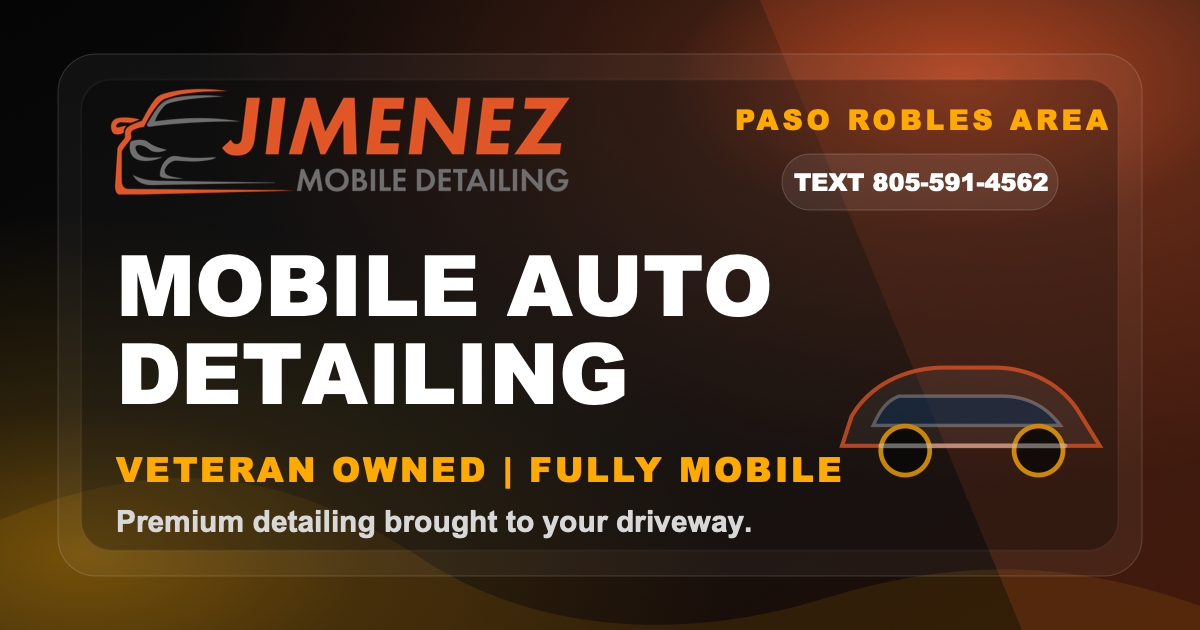
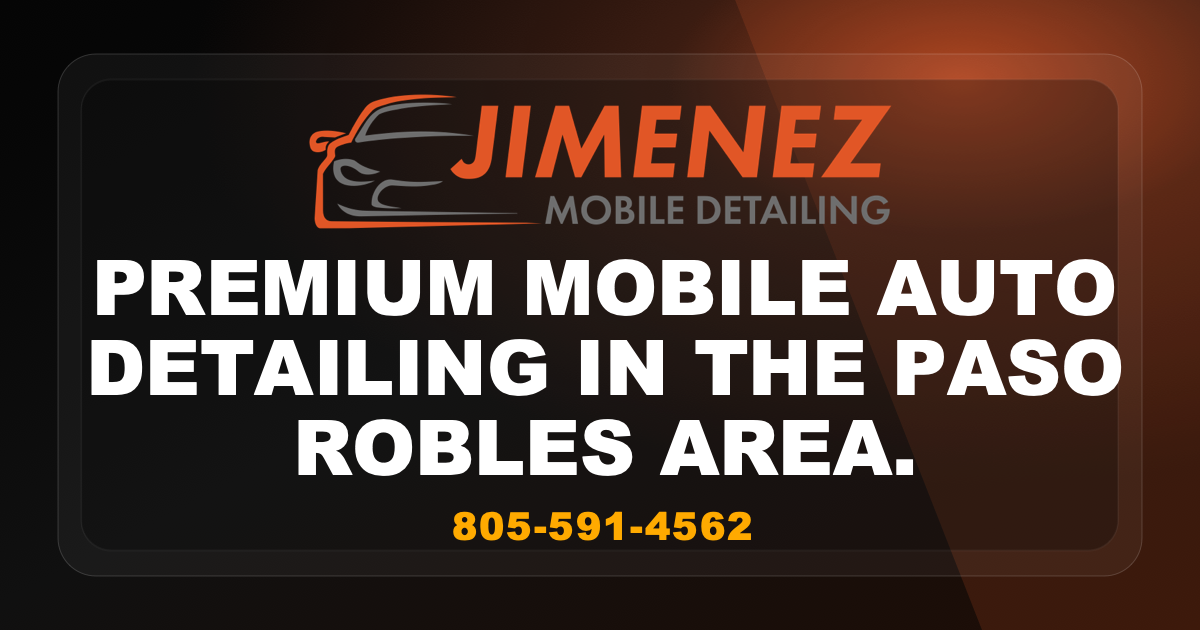
Simplify link preview card

diff --git a/about/index.html b/about/index.html
@@ -11,22 +11,22 @@
     <link rel="canonical" href="https://creativesilva.github.io/jimenez-mobile-detailing/about/" />
     <meta name="theme-color" content="#050505" />
     <meta property="og:site_name" content="Jimenez Mobile Detailing" />
-    <meta property="og:title" content="About Jimenez Mobile Detailing | Veteran Owned Mobile Detailing" />
-    <meta property="og:description" content="Learn about Jimenez Mobile Detailing, a veteran owned and fully self-contained mobile detailing service in the Paso Robles area." />
+    <meta property="og:title" content="Premium Mobile Auto Detailing in the Paso Robles Area." />
+    <meta property="og:description" content="805-591-4562" />
     <meta property="og:type" content="website" />
     <meta property="og:url" content="https://creativesilva.github.io/jimenez-mobile-detailing/about/" />
-    <meta property="og:image" content="https://creativesilva.github.io/jimenez-mobile-detailing/public/assets/images/jimenez-link-preview.png" />
-    <meta property="og:image:secure_url" content="https://creativesilva.github.io/jimenez-mobile-detailing/public/assets/images/jimenez-link-preview.png" />
+    <meta property="og:image" content="https://creativesilva.github.io/jimenez-mobile-detailing/public/assets/images/jimenez-link-preview.png?v=20260429-simple" />
+    <meta property="og:image:secure_url" content="https://creativesilva.github.io/jimenez-mobile-detailing/public/assets/images/jimenez-link-preview.png?v=20260429-simple" />
     <meta property="og:image:type" content="image/png" />
     <meta property="og:image:width" content="1200" />
     <meta property="og:image:height" content="630" />
-    <meta property="og:image:alt" content="Jimenez Mobile Detailing branded preview card" />
+    <meta property="og:image:alt" content="Jimenez Mobile Detailing logo, premium mobile auto detailing in the Paso Robles area, and 805-591-4562" />
     <meta name="twitter:card" content="summary_large_image" />
-    <meta name="twitter:title" content="About Jimenez Mobile Detailing | Veteran Owned Mobile Detailing" />
-    <meta name="twitter:description" content="Veteran owned and fully self-contained mobile detailing in the Paso Robles area." />
-    <meta name="twitter:image" content="https://creativesilva.github.io/jimenez-mobile-detailing/public/assets/images/jimenez-link-preview.png" />
-    <meta name="twitter:image:alt" content="Jimenez Mobile Detailing branded preview card" />
-    <link rel="image_src" href="https://creativesilva.github.io/jimenez-mobile-detailing/public/assets/images/jimenez-link-preview.png" />
+    <meta name="twitter:title" content="Premium Mobile Auto Detailing in the Paso Robles Area." />
+    <meta name="twitter:description" content="805-591-4562" />
+    <meta name="twitter:image" content="https://creativesilva.github.io/jimenez-mobile-detailing/public/assets/images/jimenez-link-preview.png?v=20260429-simple" />
+    <meta name="twitter:image:alt" content="Jimenez Mobile Detailing logo, premium mobile auto detailing in the Paso Robles area, and 805-591-4562" />
+    <link rel="image_src" href="https://creativesilva.github.io/jimenez-mobile-detailing/public/assets/images/jimenez-link-preview.png?v=20260429-simple" />
     <link rel="icon" type="image/svg+xml" href="../public/assets/logo/JIMENEZ_Logo.svg" />
     <link rel="preconnect" href="https://fonts.googleapis.com" />
     <link rel="preconnect" href="https://fonts.gstatic.com" crossorigin />

diff --git a/index.html b/index.html
@@ -11,22 +11,22 @@
     <link rel="canonical" href="https://creativesilva.github.io/jimenez-mobile-detailing/" />
     <meta name="theme-color" content="#050505" />
     <meta property="og:site_name" content="Jimenez Mobile Detailing" />
-    <meta property="og:title" content="Jimenez Mobile Detailing | Mobile Auto Detailing in Paso Robles" />
-    <meta property="og:description" content="Veteran owned mobile auto detailing in the Paso Robles area. Text to request your detail." />
+    <meta property="og:title" content="Premium Mobile Auto Detailing in the Paso Robles Area." />
+    <meta property="og:description" content="805-591-4562" />
     <meta property="og:type" content="website" />
     <meta property="og:url" content="https://creativesilva.github.io/jimenez-mobile-detailing/" />
-    <meta property="og:image" content="https://creativesilva.github.io/jimenez-mobile-detailing/public/assets/images/jimenez-link-preview.png" />
-    <meta property="og:image:secure_url" content="https://creativesilva.github.io/jimenez-mobile-detailing/public/assets/images/jimenez-link-preview.png" />
+    <meta property="og:image" content="https://creativesilva.github.io/jimenez-mobile-detailing/public/assets/images/jimenez-link-preview.png?v=20260429-simple" />
+    <meta property="og:image:secure_url" content="https://creativesilva.github.io/jimenez-mobile-detailing/public/assets/images/jimenez-link-preview.png?v=20260429-simple" />
     <meta property="og:image:type" content="image/png" />
     <meta property="og:image:width" content="1200" />
     <meta property="og:image:height" content="630" />
-    <meta property="og:image:alt" content="Jimenez Mobile Detailing branded preview card" />
+    <meta property="og:image:alt" content="Jimenez Mobile Detailing logo, premium mobile auto detailing in the Paso Robles area, and 805-591-4562" />
     <meta name="twitter:card" content="summary_large_image" />
-    <meta name="twitter:title" content="Jimenez Mobile Detailing | Mobile Auto Detailing in Paso Robles" />
-    <meta name="twitter:description" content="Veteran owned mobile auto detailing in the Paso Robles area. Text to request your detail." />
-    <meta name="twitter:image" content="https://creativesilva.github.io/jimenez-mobile-detailing/public/assets/images/jimenez-link-preview.png" />
-    <meta name="twitter:image:alt" content="Jimenez Mobile Detailing branded preview card" />
-    <link rel="image_src" href="https://creativesilva.github.io/jimenez-mobile-detailing/public/assets/images/jimenez-link-preview.png" />
+    <meta name="twitter:title" content="Premium Mobile Auto Detailing in the Paso Robles Area." />
+    <meta name="twitter:description" content="805-591-4562" />
+    <meta name="twitter:image" content="https://creativesilva.github.io/jimenez-mobile-detailing/public/assets/images/jimenez-link-preview.png?v=20260429-simple" />
+    <meta name="twitter:image:alt" content="Jimenez Mobile Detailing logo, premium mobile auto detailing in the Paso Robles area, and 805-591-4562" />
+    <link rel="image_src" href="https://creativesilva.github.io/jimenez-mobile-detailing/public/assets/images/jimenez-link-preview.png?v=20260429-simple" />
     <link rel="icon" type="image/svg+xml" href="./public/assets/logo/JIMENEZ_Logo.svg" />
     <link rel="preconnect" href="https://fonts.googleapis.com" />
     <link rel="preconnect" href="https://fonts.gstatic.com" crossorigin />

diff --git a/before-after/index.html b/before-after/index.html
@@ -11,22 +11,22 @@
     <link rel="canonical" href="https://creativesilva.github.io/jimenez-mobile-detailing/before-after/" />
     <meta name="theme-color" content="#050505" />
     <meta property="og:site_name" content="Jimenez Mobile Detailing" />
-    <meta property="og:title" content="Before & After | Jimenez Mobile Detailing" />
-    <meta property="og:description" content="See before and after mobile detailing work from Jimenez Mobile Detailing in the Paso Robles area." />
+    <meta property="og:title" content="Premium Mobile Auto Detailing in the Paso Robles Area." />
+    <meta property="og:description" content="805-591-4562" />
     <meta property="og:type" content="website" />
     <meta property="og:url" content="https://creativesilva.github.io/jimenez-mobile-detailing/before-after/" />
-    <meta property="og:image" content="https://creativesilva.github.io/jimenez-mobile-detailing/public/assets/images/jimenez-link-preview.png" />
-    <meta property="og:image:secure_url" content="https://creativesilva.github.io/jimenez-mobile-detailing/public/assets/images/jimenez-link-preview.png" />
+    <meta property="og:image" content="https://creativesilva.github.io/jimenez-mobile-detailing/public/assets/images/jimenez-link-preview.png?v=20260429-simple" />
+    <meta property="og:image:secure_url" content="https://creativesilva.github.io/jimenez-mobile-detailing/public/assets/images/jimenez-link-preview.png?v=20260429-simple" />
     <meta property="og:image:type" content="image/png" />
     <meta property="og:image:width" content="1200" />
     <meta property="og:image:height" content="630" />
-    <meta property="og:image:alt" content="Jimenez Mobile Detailing branded preview card" />
+    <meta property="og:image:alt" content="Jimenez Mobile Detailing logo, premium mobile auto detailing in the Paso Robles area, and 805-591-4562" />
     <meta name="twitter:card" content="summary_large_image" />
-    <meta name="twitter:title" content="Before & After | Jimenez Mobile Detailing" />
-    <meta name="twitter:description" content="See before and after mobile detailing work from Jimenez Mobile Detailing in the Paso Robles area." />
-    <meta name="twitter:image" content="https://creativesilva.github.io/jimenez-mobile-detailing/public/assets/images/jimenez-link-preview.png" />
-    <meta name="twitter:image:alt" content="Jimenez Mobile Detailing branded preview card" />
-    <link rel="image_src" href="https://creativesilva.github.io/jimenez-mobile-detailing/public/assets/images/jimenez-link-preview.png" />
+    <meta name="twitter:title" content="Premium Mobile Auto Detailing in the Paso Robles Area." />
+    <meta name="twitter:description" content="805-591-4562" />
+    <meta name="twitter:image" content="https://creativesilva.github.io/jimenez-mobile-detailing/public/assets/images/jimenez-link-preview.png?v=20260429-simple" />
+    <meta name="twitter:image:alt" content="Jimenez Mobile Detailing logo, premium mobile auto detailing in the Paso Robles area, and 805-591-4562" />
+    <link rel="image_src" href="https://creativesilva.github.io/jimenez-mobile-detailing/public/assets/images/jimenez-link-preview.png?v=20260429-simple" />
     <link rel="icon" type="image/svg+xml" href="../public/assets/logo/JIMENEZ_Logo.svg" />
     <link rel="preconnect" href="https://fonts.googleapis.com" />
     <link rel="preconnect" href="https://fonts.gstatic.com" crossorigin />
